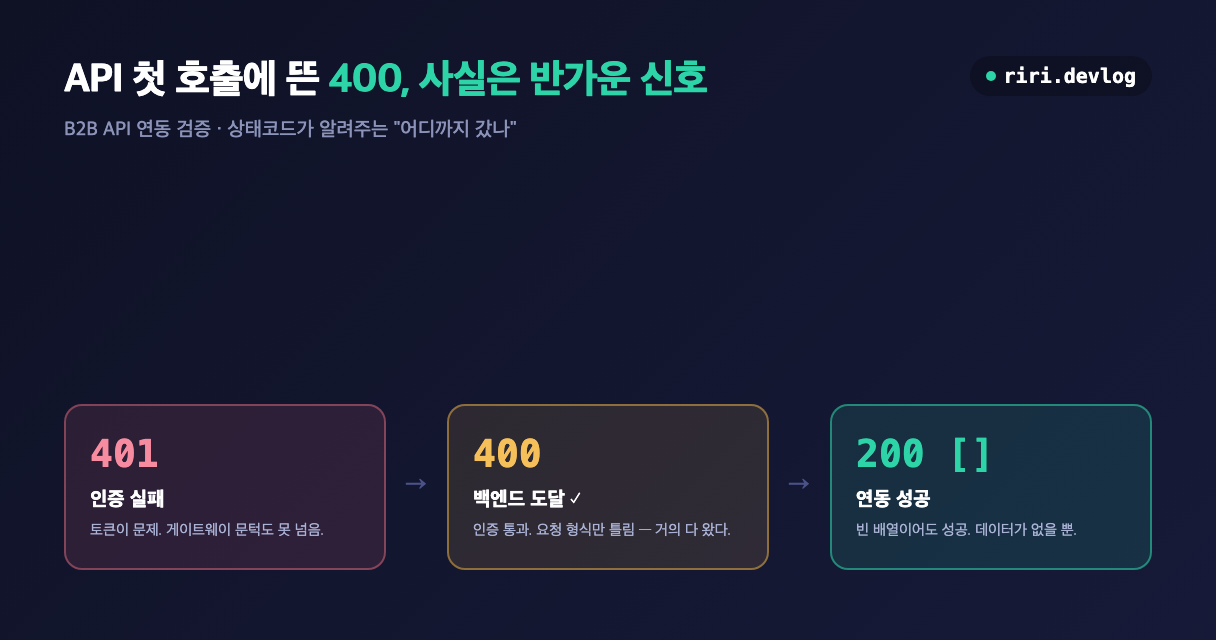
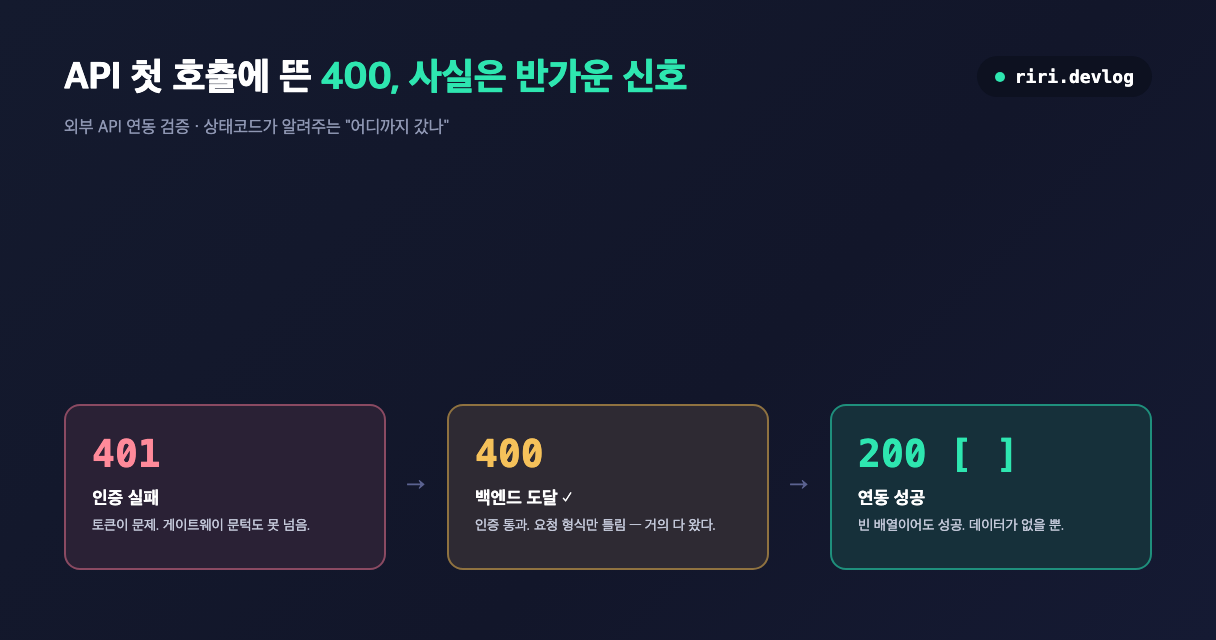
기밀 금칙어 반영: 'B2B' 표기를 '외부 API'로 교체(URL·파일명 유지), 검사기에 자기 사이트 경로 예외 추가

diff --git a/tools/post_lint.py b/tools/post_lint.py
@@ -33,6 +33,7 @@ DESC_WARN = 160         # description이 이보다 길면 검색결과에서 잘
 
 REQUIRED_FM = ["title", "date", "categories", "tags", "description"]
 
+OWN_PATH_RE = re.compile(r"(?:https?://(?:www\.)?riririb\.com)?/(?:posts|assets)/[^\s)\"']*")
 FENCE_RE = re.compile(r"^(\s*)(`{3,}|~{3,})(.*)$")
 
 
@@ -320,7 +321,8 @@ def lint(path: Path, terms: list[str] | None) -> Report:
         r.warn(1, "기밀 금칙어 검사 건너뜀 — BLOG_LINT_TERMS 미설정")
     else:
         for no, line in enumerate(text.split("\n"), 1):
-            low = line.lower()
+            # 이 사이트의 기존 URL·파일 경로는 바꾸면 색인·링크가 깨지므로 예외(2026-11-19 사용자 결정)
+            low = OWN_PATH_RE.sub("", line).lower()
             for t in terms:
                 if t.lower() in low:
                     r.error(no, "기밀 금칙어 포함 (단어는 출력하지 않음 — 사전 대조 필요)")

diff --git a/_posts/2026-07-07-b2b-api-http-400-good-signal.md b/_posts/2026-07-07-b2b-api-http-400-good-signal.md
@@ -1,5 +1,5 @@
 ---
-title: "B2B API 연동 검증에서 HTTP 400이 반가운 신호인 이유 (401 vs 400 vs 200)"
+title: "외부 API 연동 검증에서 HTTP 400이 반가운 신호인 이유 (401 vs 400 vs 200)"
 headline: "400이 반가운 신호"
 highlight: "400"
 date: 2026-07-07 07:00:00 +0900
@@ -190,6 +190,6 @@ curl -X POST "https://gateway.api.kuehne-nagel.com/track-trace/shipment/v2/shipm
 
 ## 정리
 
-1. B2B API 첫 호출의 400은 인증 실패가 아니라 **인증 통과 + 백엔드 도달** 신호다. 401(토큰)·403(권한)과 구분하자.
+1. 외부 API 첫 호출의 400은 인증 실패가 아니라 **인증 통과 + 백엔드 도달** 신호다. 401(토큰)·403(권한)과 구분하자.
 2. 400 응답 본문의 `path`가 내부 주소로 바뀌어 있으면 게이트웨이 라우팅이 정상 작동한 것 — 필수 파라미터를 확인하면 된다.
 3. 연결 검증은 필수 파라미터 없는 엔드포인트로 `200 + 빈 배열`을 받으면 끝. 빈 배열은 실패가 아니다.

diff --git a/_tabs/about.md b/_tabs/about.md
@@ -28,7 +28,7 @@ order: 4
 - **네이버 블로그 자동화** — [스마트에디터 Playwright 함정]({% post_url 2026-07-23-naver-smarteditor-playwright-pitfalls %}), [발행 자동화]({% post_url 2026-07-28-naver-blog-publish-automation %}), 서로이웃 자동화 시리즈
 - **블로그 운영과 검색 노출** — [GitHub Pages 사이트맵 '가져올 수 없음' 해결]({% post_url 2026-09-15-github-pages-sitemap-couldnt-fetch-custom-domain %}), IndexNow, 이미지 최적화
 - **숏폼 영상 자동 제작** — ffmpeg 자막·음량, 나레이션과 컷 길이 맞추기
-- **API 연동 트러블슈팅** — Instagram Graph API, B2B API 검증, macOS 명령줄 도구
+- **API 연동 트러블슈팅** — Instagram Graph API, 외부 API 연동 검증, macOS 명령줄 도구
 
 글 전체는 [카테고리](/categories/)와 [아카이브](/archives/)에서 볼 수 있습니다.
 

diff --git a/tools/velog-drafts/b2b-api-http-400-good-signal.md b/tools/velog-drafts/b2b-api-http-400-good-signal.md
@@ -27,4 +27,4 @@
 
 이 글은 발췌본입니다. 실패한 시도와 검증 과정까지 포함한 전문은 원문에 있습니다.
 
-👉 **[B2B API 연동 검증에서 HTTP 400이 반가운 신호인 이유 (401 vs 400 vs 200)](https://riririb.com/posts/b2b-api-http-400-good-signal/)**
+👉 **[외부 API 연동 검증에서 HTTP 400이 반가운 신호인 이유 (401 vs 400 vs 200)](https://riririb.com/posts/b2b-api-http-400-good-signal/)**
